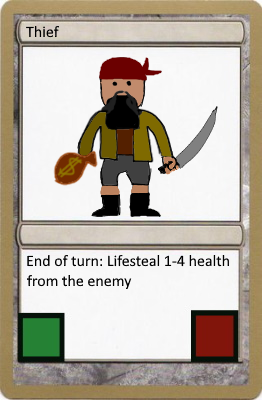
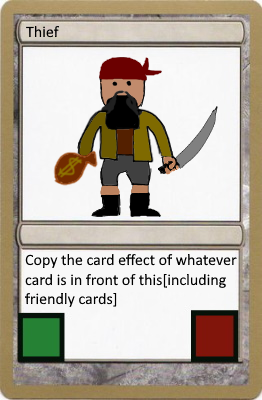
Thief working card

Changed region(s): [[0.0916, 0.63, 0.916, 0.78]]

diff --git a/Cards/Thief.cs b/Cards/Thief.cs
@@ -9,20 +9,94 @@ namespace PriateCardGame.Cards
 {
     class Thief : CardBase
     {
+        delegate void StealEventHandler(List<CardSpace> enemySpaces, List<CardSpace> playerSpaces);
+        event StealEventHandler StealAbilityEvent;
+        private CardBase stealTarget;
+
+
+        private void OnStealEvent(List<CardSpace> enemySpaces, List<CardSpace> playerSpaces)
+        {
+            if (StealAbilityEvent!=null)
+            {
+                StealAbilityEvent(enemySpaces,playerSpaces);
+            }
+        }
+
         public override void AdditionalCardEffect(List<CardSpace> enemySpaces, List<CardSpace> playerSpaces)
         {
             if (this.position.Y < 500)
-            {
-                ThiefAttackPlayer(enemySpaces, playerSpaces);
+               {
+                if (this.spaceNumber <= 3)
+                {
+                    if (enemySpaces[this.spaceNumber + 4].card == null)
+                    {
+                        if (playerSpaces[this.spaceNumber].card !=null)
+                        {
+                            stealTarget = playerSpaces[this.spaceNumber].card;
 
-
+                        }
+                        else
+                        {
+                            stealTarget = playerSpaces[this.spaceNumber + 4].card;
+                        }
+                    }
+                    else
+                    {
+                        stealTarget = enemySpaces[this.spaceNumber + 4].card;
+                    }
+                }
+                else if (this.spaceNumber >= 4)
+                {
+                        if (playerSpaces[this.spaceNumber-4].card != null)
+                        {
+                        stealTarget = playerSpaces[this.spaceNumber - 4].card;
+                        }
+                        else
+                        {
+                        stealTarget = playerSpaces[this.spaceNumber].card;
+                        }
+                    
+                }
             }
-            else if (this.position.Y > 500)
+            else
             {
-                ThiefAttackEnemy(enemySpaces, playerSpaces);
+                if (this.spaceNumber <= 3)
+                {
+                        if (enemySpaces[this.spaceNumber+4].card != null)
+                        {
+                            stealTarget = enemySpaces[this.spaceNumber + 4].card;
+                        }
+                        else
+                        {
+                        stealTarget = enemySpaces[this.spaceNumber].card;
+                        }
+                }
+                else if (this.spaceNumber >= 4)
+                {
+                    if (playerSpaces[this.spaceNumber-4].card == null)
+                    {
+                        if (enemySpaces[this.spaceNumber].card != null)
+                        {
+                            stealTarget = enemySpaces[this.spaceNumber].card;
+                        }
+                        else
+                        {
+                            stealTarget = enemySpaces[this.spaceNumber - 4].card;
+                        }
+                    }
+                    else
+                    {
+                        stealTarget = playerSpaces[this.spaceNumber - 4].card;
+                    }
 
+                }
             }
 
+            stealTarget.position = this.position;
+            stealTarget.spaceNumber = this.spaceNumber;
+            StealAbilityEvent += stealTarget.AdditionalCardEffect;
+            OnStealEvent(enemySpaces,playerSpaces);
+            stealTarget = null;
         }
 
         public Thief()
@@ -39,96 +113,7 @@ namespace PriateCardGame.Cards
             this.DamageBox = contentManager.Load<Texture2D>("DamageBox");
         }
 
-        private void ThiefAttackEnemy(List<CardSpace> enemySpaces, List<CardSpace> playerSpaces)
-        {
-            Random rnd = new Random();
-            int lifeSteal = rnd.Next(1, 4);
-            if (this.spaceNumber <= 3)
-            {
-                if (enemySpaces[this.spaceNumber + 4].card != null)
-                {
-                    enemySpaces[this.spaceNumber + 4].card.Health -= lifeSteal;
-                    enemySpaces[this.spaceNumber + 4].card.damageTaken += lifeSteal;
-                    playerSpaces[this.spaceNumber].card.Health += lifeSteal;
-                }
-                else if (enemySpaces[this.spaceNumber].card != null)
-                {
-                    enemySpaces[this.spaceNumber].card.Health -= lifeSteal;
-                    enemySpaces[this.spaceNumber].card.damageTaken += lifeSteal;
-                    playerSpaces[this.spaceNumber].card.Health += lifeSteal;
-                }
-                else
-                {
-                    //attack enemy
-                }
-            }
-            else if (playerSpaces[this.spaceNumber - 4].card == null)
-            {
-                if (enemySpaces[this.spaceNumber].card != null)
-                {
-                    enemySpaces[this.spaceNumber].card.Health -= lifeSteal;
-                    enemySpaces[this.spaceNumber].card.damageTaken += lifeSteal;
-                    playerSpaces[this.spaceNumber].card.Health += lifeSteal;
-                }
-                else if (enemySpaces[this.spaceNumber - 4].card != null)
-                {
-                    enemySpaces[this.spaceNumber - 4].card.Health -= lifeSteal;
-                    enemySpaces[this.spaceNumber - 4].card.damageTaken += lifeSteal;
-                    playerSpaces[this.spaceNumber].card.Health += lifeSteal;
-                }
-                else
-                {
-                    //attack enemy
-                }
-            }
-        }
-
-        private void ThiefAttackPlayer(List<CardSpace> enemySpaces, List<CardSpace> playerSpaces)
-        {
-            Random rnd = new Random();
-            int lifeSteal = rnd.Next(1, 4);
-            if (this.spaceNumber <= 3)
-            {
-                if (enemySpaces[this.spaceNumber + 4].card == null)
-                {
-                    if (playerSpaces[this.spaceNumber].card != null)
-                    {
-                        playerSpaces[this.spaceNumber].card.Health -= lifeSteal;
-                        playerSpaces[this.spaceNumber].card.damageTaken += lifeSteal;
-                        enemySpaces[this.spaceNumber].card.Health += lifeSteal;
-                    }
-                    else if (playerSpaces[this.spaceNumber + 4].card != null)
-                    {
-                        playerSpaces[this.spaceNumber + 4].card.Health -= lifeSteal;
-                        playerSpaces[this.spaceNumber + 4].card.damageTaken += lifeSteal;
-                        enemySpaces[this.spaceNumber].card.Health += lifeSteal;
-                    }
-                }
-                else
-                {
-                    //attack enemy
-                }
-            }
-            else
-            {
-                if (playerSpaces[this.spaceNumber - 4].card != null)
-                {
-                    playerSpaces[this.spaceNumber - 4].card.Health -= this.Damage;
-                    playerSpaces[this.spaceNumber - 4].card.damageTaken += this.Damage;
-                    enemySpaces[this.spaceNumber].card.Health += lifeSteal;
-                }
-                else if (playerSpaces[this.spaceNumber].card != null)
-                {
-                    playerSpaces[this.spaceNumber].card.Health -= this.Damage;
-                    playerSpaces[this.spaceNumber].card.damageTaken += this.Damage;
-                    enemySpaces[this.spaceNumber].card.Health += lifeSteal;
-                }
-                else
-                {
-                    //attack enemy
-                }
-            }
-        }
+       
 
     }
 }

diff --git a/GameWorld.cs b/GameWorld.cs
@@ -108,7 +108,7 @@ namespace PriateCardGame
                 var provider = new SQLiteDatabaseProvider("Data Source=Cards.db;Version=3;new=true");
                 repo = new CardRepository(provider, mapper);
 
-                //dropRepoTable();
+                dropRepoTable();
 
                 repo.Open();
 
@@ -121,7 +121,7 @@ namespace PriateCardGame
                     repo.AddCard("Swapper");
                     repo.AddCard("Swapper");
                     repo.AddCard("Swapper");
-                    repo.AddCard("Swapper");
+                    repo.AddCard("Thief");
                     repo.AddCard("Cannibal");
                     repo.AddCard("Captain");
                 }
